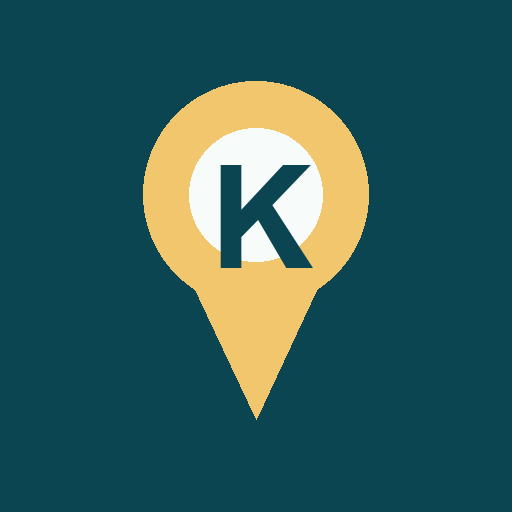
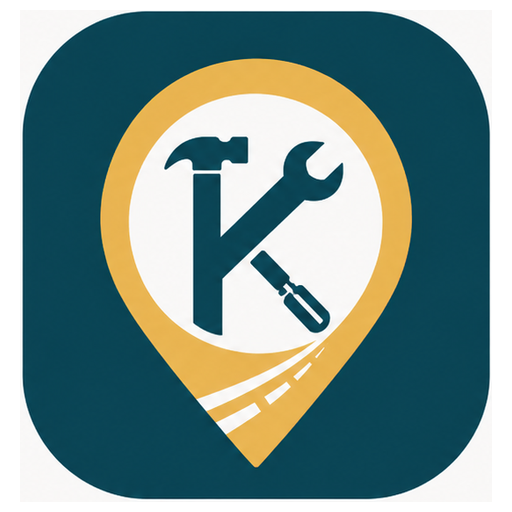
Refactor code structure for improved readability and maintainability

diff --git a/index.html b/index.html
@@ -38,7 +38,7 @@
   <link rel="stylesheet" href="https://cdnjs.cloudflare.com/ajax/libs/font-awesome/6.5.2/css/all.min.css">
   <link rel="stylesheet" href="https://cdn.jsdelivr.net/npm/leaflet@1.9.4/dist/leaflet.css">
   <link rel="stylesheet" href="https://cdn.jsdelivr.net/npm/admin-lte@3.2/dist/css/adminlte.min.css">
-  <link rel="stylesheet" href="style.css?v=20260606-chip-bulk-actions">
+  <link rel="stylesheet" href="style.css?v=20260607-brand-refresh">
   <script type="application/ld+json">
   {
     "@context": "https://schema.org",
@@ -113,7 +113,7 @@
       <div class="landing-shell container-fluid px-3 py-3">
         <div class="hero-compact">
           <div class="hero-copy">
-            <img class="hero-brand" src="assets/kaila-logo.svg" alt="KAILA - Local help, easier to find.">
+            <img class="hero-brand" src="assets/kaila-logo.png" alt="KAILA - Local help, easier to find.">
             <p class="eyebrow mb-2">Mobile-first local services</p>
             <h1 class="fw-black mb-2">Find trusted local help faster.</h1>
             <p class="hero-lead mb-3">Post requests, compare offers, chat clearly, and confirm jobs without the back-and-forth getting messy.</p>
@@ -135,7 +135,7 @@
           <div class="hero-preview" aria-label="KAILA request preview">
             <div class="preview-phone">
               <div class="preview-topbar">
-                <img class="preview-icon" src="assets/kaila-icon.svg" alt="">
+                <img class="preview-icon" src="assets/kaila-icon.png" alt="">
                 <strong>Nearby help</strong>
                 <em>12m</em>
               </div>
@@ -505,6 +505,6 @@
   <script src="https://cdn.jsdelivr.net/npm/sweetalert2@11"></script>
   <script src="https://cdn.jsdelivr.net/npm/xlsx@0.18.5/dist/xlsx.full.min.js"></script>
   <script src="https://cdn.jsdelivr.net/npm/leaflet@1.9.4/dist/leaflet.js"></script>
-  <script src="app.js?v=20260606-chip-bulk-actions"></script>
+  <script src="app.js?v=20260607-brand-refresh"></script>
 </body>
 </html>

diff --git a/sw.js b/sw.js
@@ -1,4 +1,4 @@
-const CACHE_NAME = "kaila-pwa-v145-chip-bulk-actions";
+const CACHE_NAME = "kaila-pwa-v146-brand-refresh";
 const IS_NATIVE_WEBVIEW = self.location.protocol === "https:"
   && ["localhost", "127.0.0.1", "::1"].includes(self.location.hostname)
   && /\bwv\b/i.test(navigator.userAgent || "");
@@ -15,8 +15,8 @@ const APP_SHELL = [
   "./assets/android-chrome-192x192.png",
   "./assets/android-chrome-512x512.png",
   "./assets/apple-touch-icon.png",
-  "./assets/kaila-icon.svg",
-  "./assets/kaila-logo.svg",
+  "./assets/kaila-icon.png",
+  "./assets/kaila-logo.png",
   "./assets/kaila-customer-service-avatar.png",
   "./assets/kaila-preview.png"
 ];

diff --git a/style.css b/style.css
@@ -543,8 +543,6 @@ body.app-mode > .navbar {
   height: auto;
   display: block;
   margin-bottom: 0.65rem;
-  border: 1px solid #dce9e5;
-  border-radius: 10px;
 }
 
 .hero-compact h1 {
@@ -821,10 +819,10 @@ body.app-mode > .navbar {
 }
 
 .preview-icon {
-  width: 1rem;
-  height: 1rem;
+  width: 1.35rem;
+  height: 1.35rem;
   display: block;
-  border-radius: 4px;
+  object-fit: contain;
 }
 
 .preview-topbar em {
